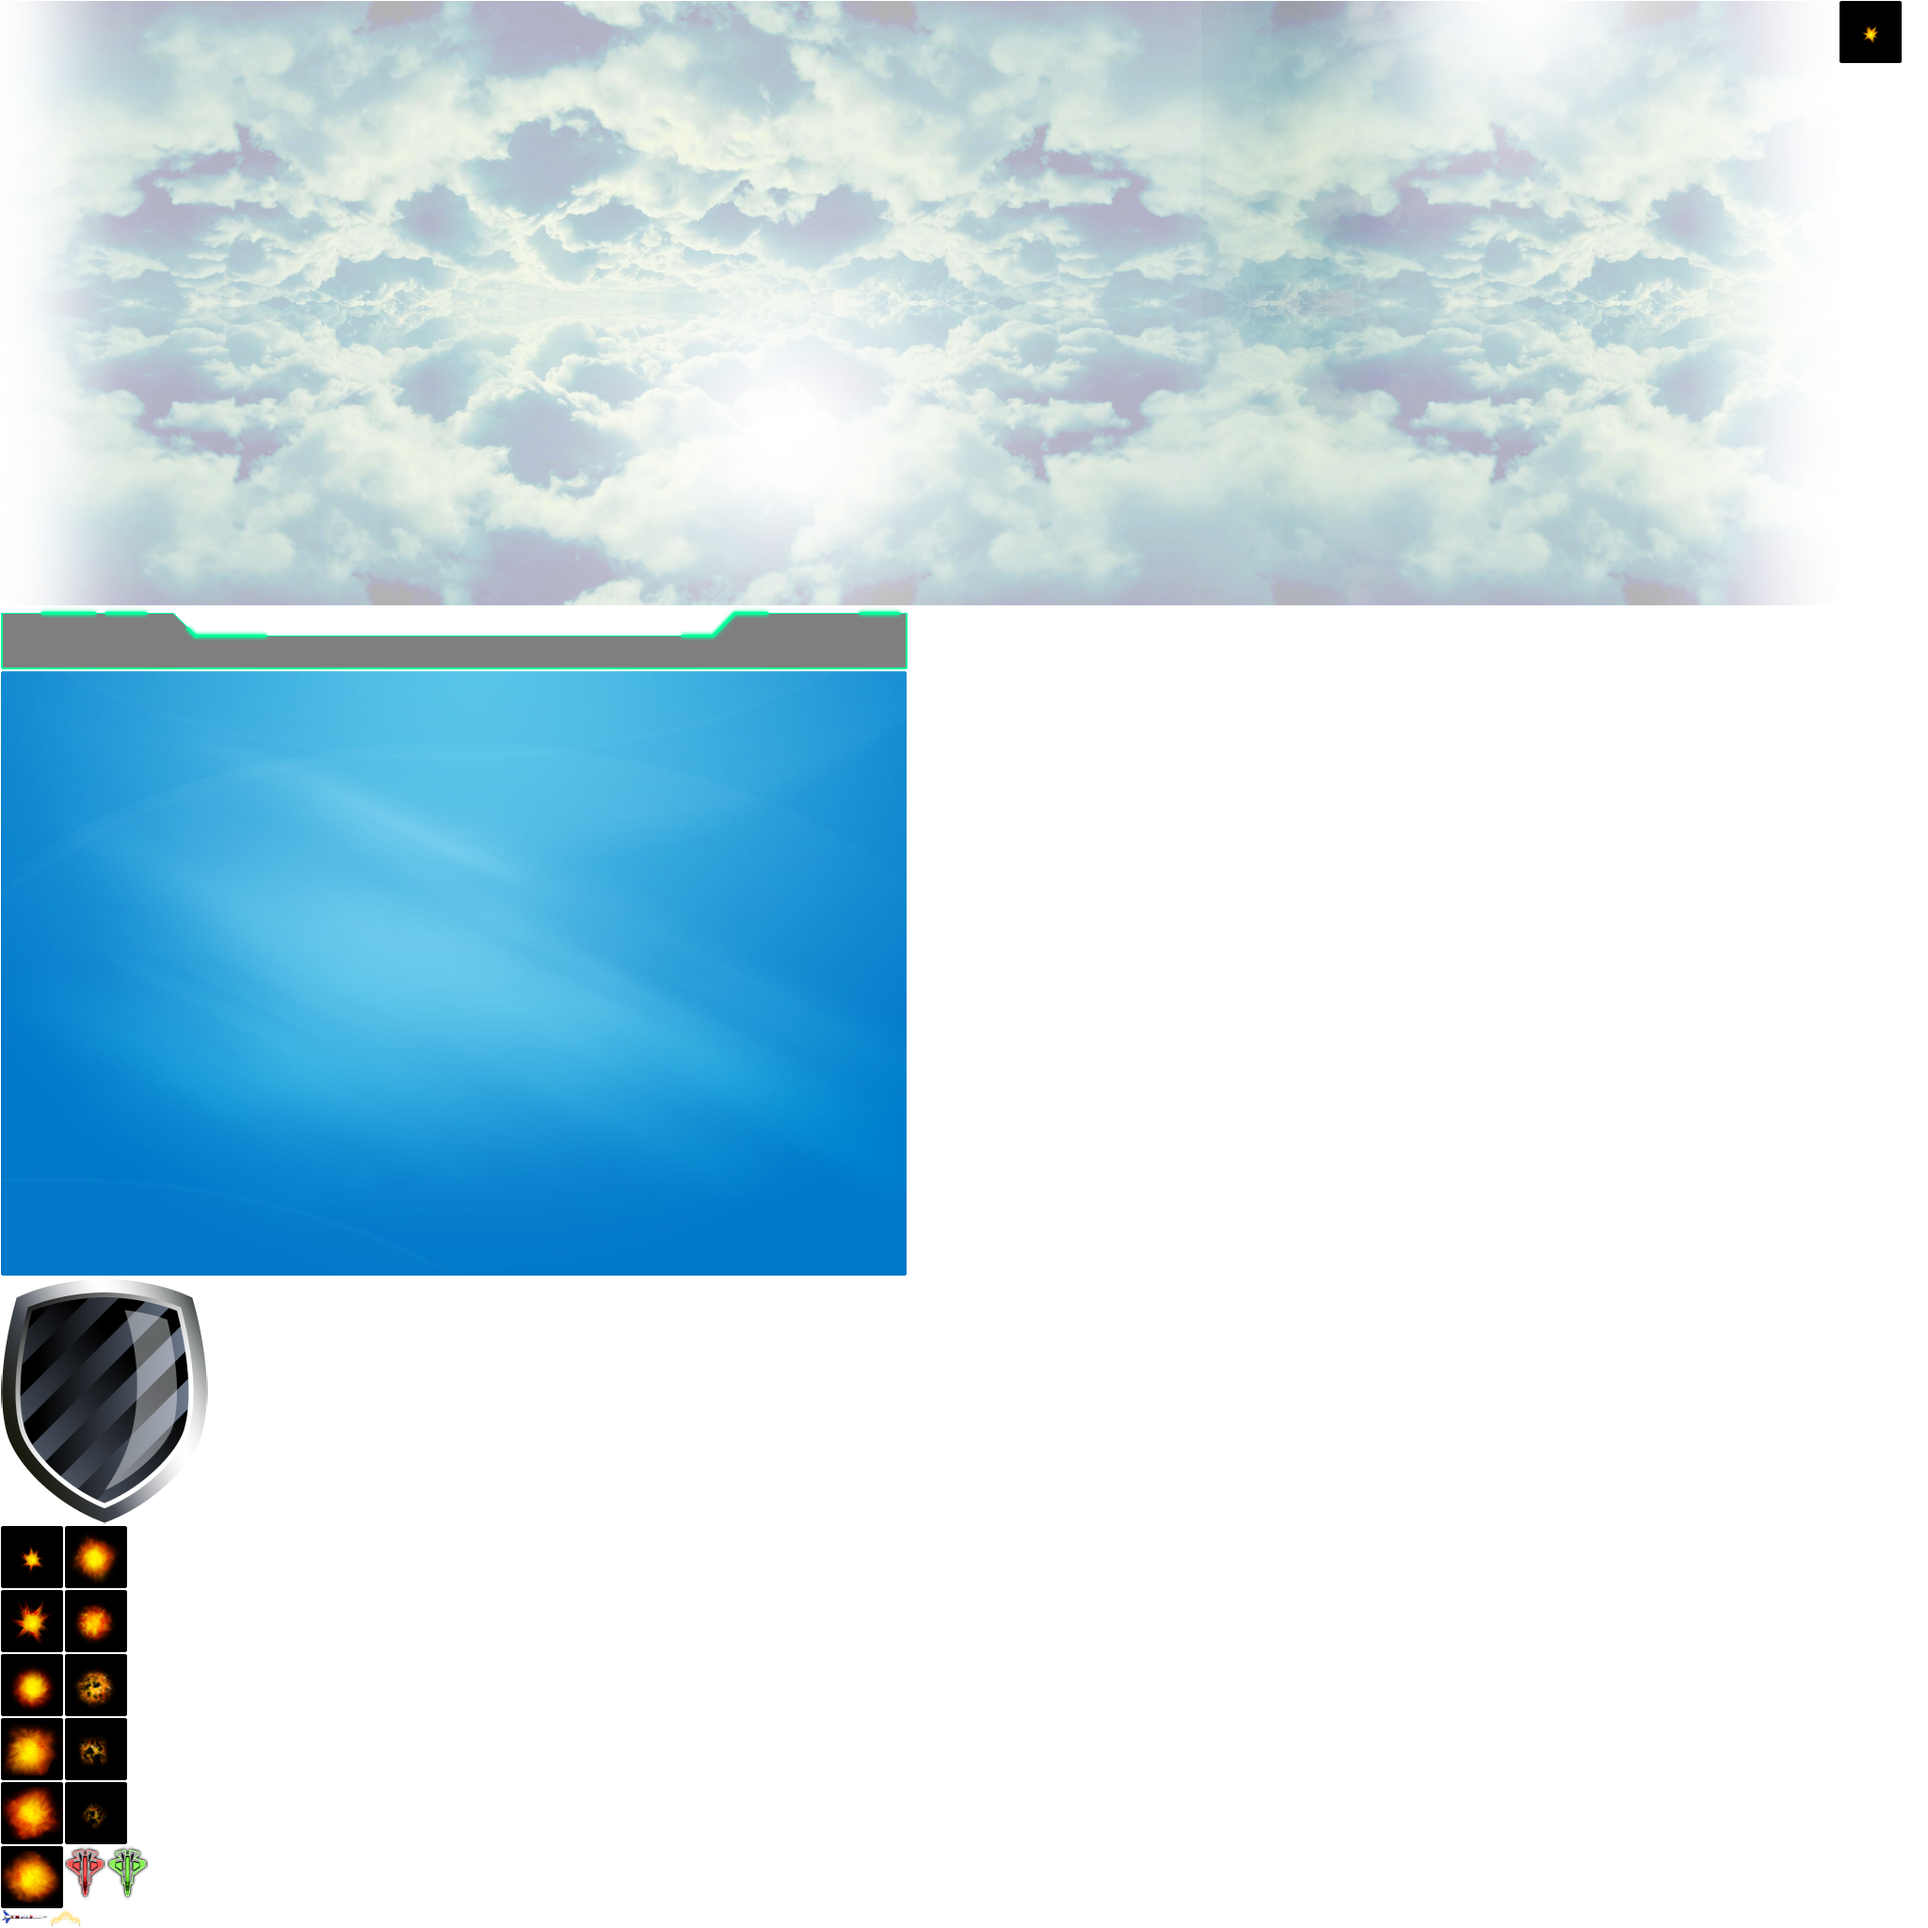
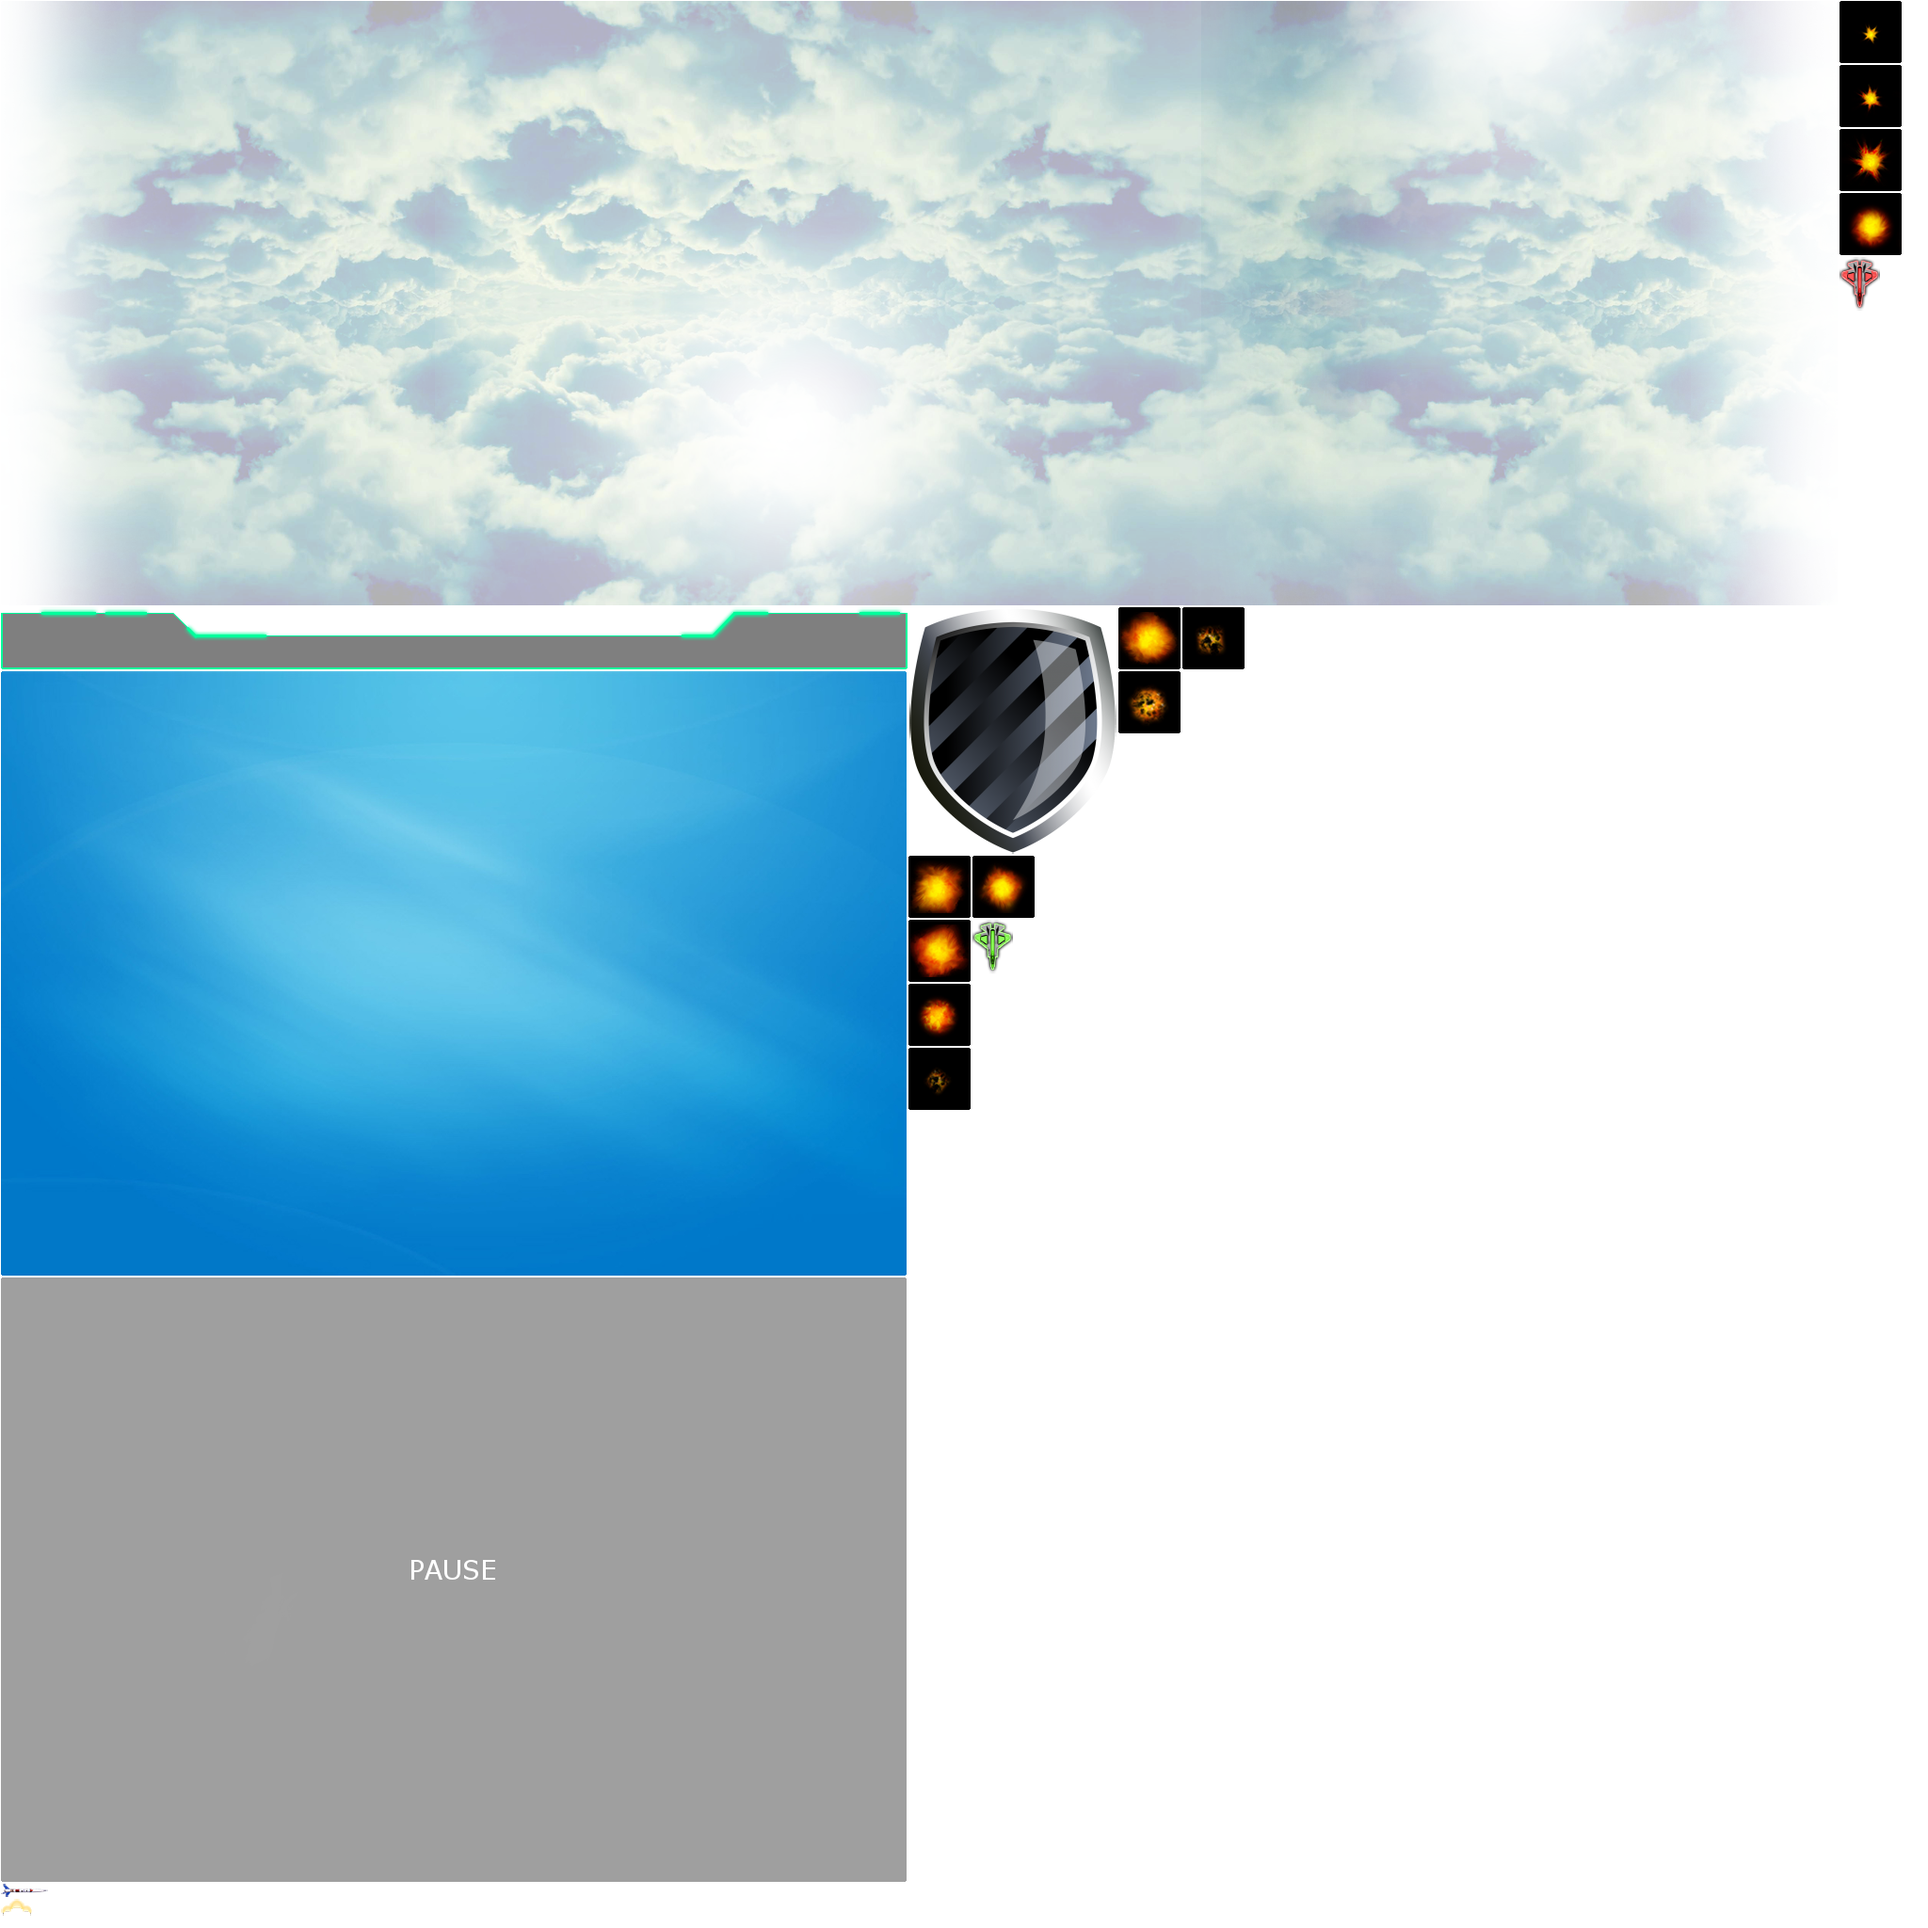
Current pause added; fixed menu elements rendering priorities

Changed region(s): [[0.0, 0.6562, 0.4688, 1.0], [0.4688, 0.3125, 0.6562, 0.5938], [0.9375, 0.0312, 1.0, 0.1562]]

diff --git a/src/display/FightStage.cpp b/src/display/FightStage.cpp
@@ -3,6 +3,7 @@
 #include "../resource/GameResource.h"
 #include "Pickup.h"
 #include "../state/MenuState.h"
+#include "Pause.h"
 
 
 FightStage::FightStage() {
@@ -64,6 +65,10 @@ void FightStage::init() {
 	playerNameGreen->attachTo(this);
 	playerNameGreen->setX(this->getWidth() - 170);
 	playerNameGreen->setY(this->getHeight() - 25);
+
+	// create pause screen
+	pause = new Pause();
+	pause->init(Point(0, 0), 0, this);
 }
 
 
@@ -128,16 +133,31 @@ void FightStage::_initBgClouds() {
 
 void FightStage::doUpdate(const UpdateState& us) {
 	// update display objects
-	for (std::list<spUnit>::iterator i = _units.begin(); i != _units.end(); ){
-		spUnit child = *i;
-		child->update(us);
+	const Uint8* keyDown = SDL_GetKeyboardState(0);
 
-		if (child->isDead()){
-			//it is dead. Time to remove it from list
-			i = _units.erase(i);
-		} else {
-			++i;
+	if (keyDown[_pauseKey])
+		if (_lastPause + 150 < us.time) {
+			_lastPause = us.time;
+			_isPaused = !_isPaused;
 		}
+
+	if (_isPaused == false) {
+		pause->getView()->setVisible(false);
+		for (std::list<spUnit>::iterator i = _units.begin(); i != _units.end(); ) {
+			spUnit child = *i;
+			child->update(us);
+
+			if (child->isDead()) {
+				//it is dead. Time to remove it from list
+				i = _units.erase(i);
+			}
+			else {
+				++i;
+			}
+		}
+	}
+	else {
+		pause->getView()->setVisible(true);
 	}
 }
 

diff --git a/src/state/MenuState.cpp b/src/state/MenuState.cpp
@@ -31,6 +31,7 @@ MenuState::MenuState(){
 		arg_attachTo = _view);
 	_mainMenu->setX(_view->getWidth() / 2);
 	_mainMenu->setY((_view->getHeight() / 2) + 80);
+	_mainMenu->setPriority(2);
 
 	//create settings block
 	_playerSettings = initActor(new Sprite,
@@ -39,7 +40,7 @@ MenuState::MenuState(){
 		arg_attachTo = _view);
 	_playerSettings->setX(_view->getWidth() / 2);
 	_playerSettings->setY((_view->getHeight() / 2) + 60);
-
+	_playerSettings->setPriority(3);
 	
 	this->_initEngineEffects();
 	this->_initFireBottomEffects();
@@ -198,6 +199,7 @@ void MenuState::_initFireBottomEffects() {
 	_fireBottomAnimation->attachTo(_view);
 	_fireBottomAnimation->setAnchor(0.5f, 0.5f);
 	_fireBottomAnimation->setResAnim(GameResource::ui.getResAnim("fire_bottom_anim"));
+	_fireBottomAnimation->setPriority(1);
 
 	//fire animation initial position
 	_fireBottomAnimation->setX(_view->getWidth() - _fireBottomAnimation->getWidth() / 3);

diff --git a/src/display/FightStage.h b/src/display/FightStage.h
@@ -1,6 +1,8 @@
 #include "oxygine-framework.h"
 #include "AircraftFighter.h"
 #include <list>
+#include "Unit.h"
+#include "Pause.h"
 
 using namespace oxygine;
 
@@ -12,9 +14,14 @@ protected:
 	friend class Rocket;
 	friend class Unit;
 	friend class Pickup;
+	bool		_isPaused = false;
+	int			_pauseKey = SDL_SCANCODE_P;
+	timeMS      _lastPause;
 
 	spAircraftFighter _af1;
 	spAircraftFighter _af2;
+
+	spPause pause;
 
 	spTextField createText(const std::string& txt, const std::string& color);
 

diff --git a/src/display/Pause.cpp b/src/display/Pause.cpp
@@ -1,0 +1,25 @@
+#include "Pause.h"
+#include "../resource/GameResource.h"
+#include "AircraftFighter.h"
+#include "FightStage.h"
+#include "Unit.h"
+
+Pause::Pause() {
+}
+
+
+Pause::~Pause() {
+}
+
+
+void Pause::_init() {
+	//you could hit obstacle 3 times
+	spSprite sprite = new Sprite;
+	sprite->setResAnim(GameResource::ui.getResAnim("pause"));
+	sprite->attachTo(_view);
+	sprite->setAnchor(Point(0, 0));
+}
+
+void Pause::_update(const UpdateState& us) {
+
+}

diff --git a/src/display/Pause.h b/src/display/Pause.h
@@ -1,0 +1,21 @@
+#pragma once
+#include "Unit.h"
+
+using namespace oxygine;
+
+DECLARE_SMART(Pause, spPause);
+class Pause : public Unit {
+protected:
+	bool visible;
+
+	void _init();
+	void _update(const UpdateState& us);
+	void _die();
+	std::string  _type; //wpn/pup
+	int _id; //with one
+	Vector2 _pos; //where
+
+public:
+	Pause();
+	~Pause();
+};

diff --git a/src/display/Unit.cpp b/src/display/Unit.cpp
@@ -42,3 +42,7 @@ float Unit::getHeight() {
 float Unit::getWidth() {
 	return this->_view->getWidth();
 }
+
+spActor Unit::getView() {
+	return this->_view;
+}

diff --git a/src/display/Unit.h b/src/display/Unit.h
@@ -25,4 +25,5 @@ public:
     bool isDead() const {return _dead;}
 	float getHeight();
 	float getWidth();
+	spActor getView();
 };
